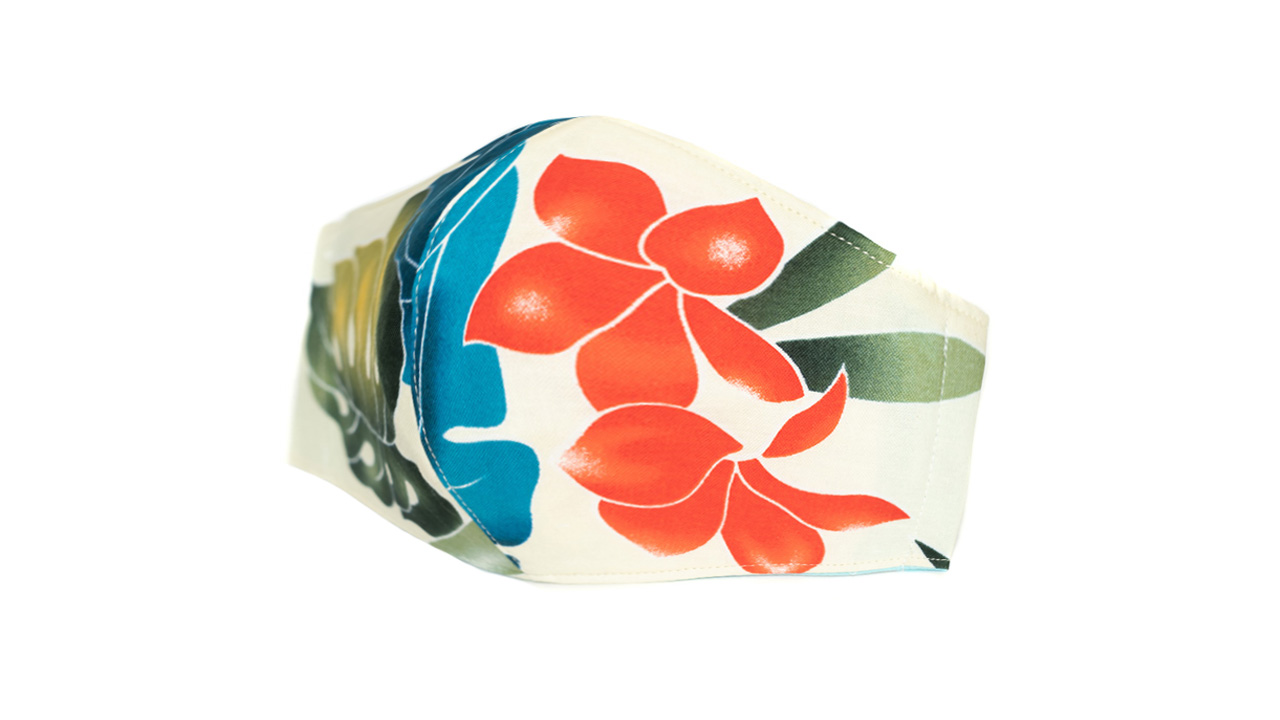
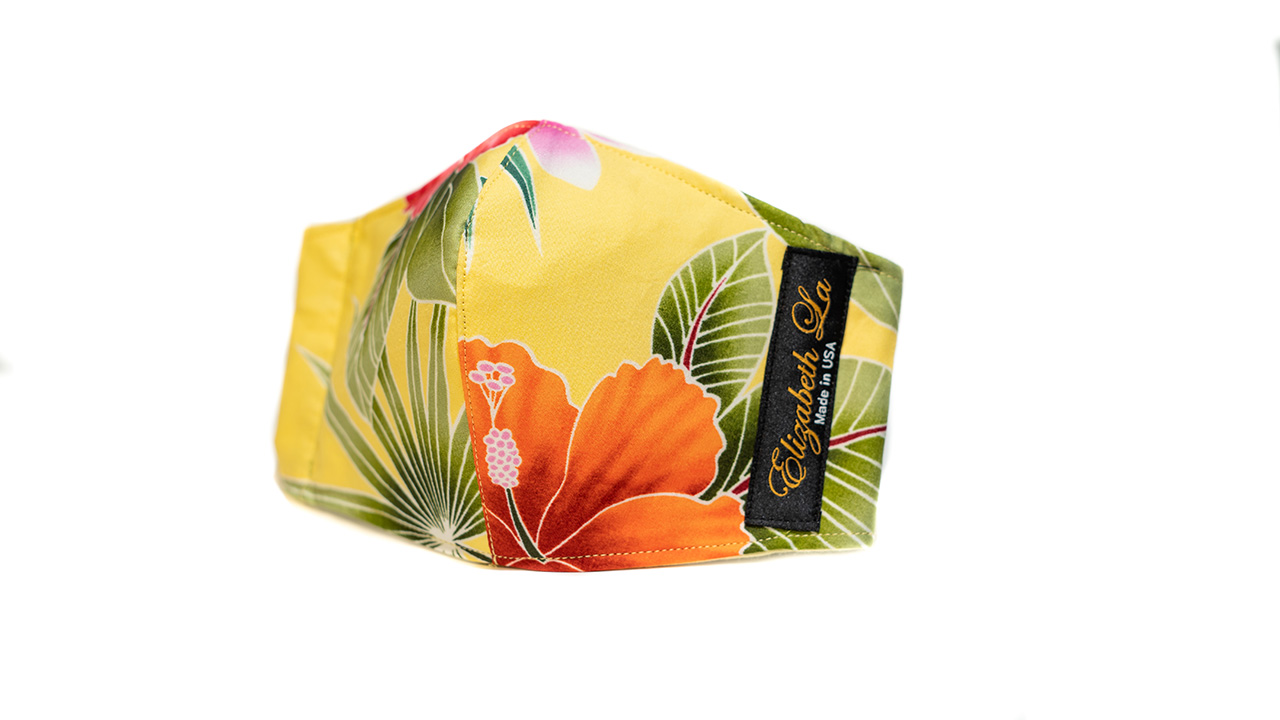
Timestamper, Delete, Edit, etc.

Changed region(s): [[0.1875, 0.1528, 0.7812, 0.825]]

diff --git a/src/components/admin/wholesale/WholesaleOrder.js b/src/components/admin/wholesale/WholesaleOrder.js
@@ -23,6 +23,7 @@ import CircularProgress from '@material-ui/core/CircularProgress';
 import BackToAdmin from '../reusables/BackToAdmin';
 import Snackbar from '@material-ui/core/Snackbar';
 import MuiAlert from '@material-ui/lab/Alert';
+import Timestamper from '../../misc/Timestamper';
 
 const useStyles = makeStyles({
     root: {
@@ -56,6 +57,7 @@ const useStyles = makeStyles({
     caption: {
         fontSize: '.9rem',
         paddingLeft: 16,
+        color: 'rgba(0,0,0,.7)',
     },
 });
 
@@ -95,6 +97,7 @@ export default ({ match }) => {
     const [loading, setLoading] = useState(true);
     const [title, setTitle] = useState('');
     const [snackbarOpen, setSnackbarOpen] = useState(false);
+    const [timestamp, setTimestamp] = useState('0');
 
     const classes = useStyles();
 
@@ -109,6 +112,8 @@ export default ({ match }) => {
                 });
                 console.log(response.data);
                 setTitle(response.data.Title);
+                setTimestamp(response.data.Timestamp);
+                delete response.data.Timestamp;
                 delete response.data.Title;
                 delete response.data.Completed;
                 delete response.data.ID;
@@ -173,10 +178,12 @@ export default ({ match }) => {
             action: 'Save',
             data: data,
             Total: totals.all,
+            timestamp: Timestamper().split('T').join(' ').slice(0, -6),
         };
+        setTimestamp(event.timestamp);
         try {
-            await axios.put(putItemAPI, event, header);
             setSnackbarOpen(true);
+            await axios.put(putItemAPI, event, header);
         } catch (error) {
             console.log(error);
         }
@@ -252,6 +259,7 @@ export default ({ match }) => {
             <p className={classes.caption}>
                 *To Do <strong>WILL NOT</strong> be updated upon Save.
             </p>
+            <p className={classes.caption}>Last updated on {timestamp}</p>
             {loading ? (
                 <div style={{ textAlign: 'center' }}>
                     <CircularProgress />

diff --git a/src/components/admin/Wholesale.js b/src/components/admin/Wholesale.js
@@ -25,7 +25,7 @@ const useStyles = makeStyles({
     root: {
         marginTop: 60,
         width: '100%',
-        maxWidth: 500,
+        maxWidth: 700,
         borderBottom: '2px solid #3f51b5',
         padding: 8,
         paddingBottom: 0,
@@ -53,7 +53,7 @@ const useStyles = makeStyles({
         color: 'rgba(0,0,0,.87)',
     },
     title: {
-        width: '50%',
+        width: 'auto',
     },
 });
 
@@ -84,7 +84,6 @@ export default () => {
         fetchData();
     }, []);
     const classes = useStyles();
-    console.log(data);
 
     const handleUpdateCompleted = async (ID) => {
         try {
@@ -123,6 +122,7 @@ export default () => {
                                 Title
                             </TableCell>
                             <TableCell align="center">Total</TableCell>
+                            <TableCell align="center">Timestamp</TableCell>
                             <TableCell align="center">Completed</TableCell>
                             <TableCell align="center">Remove</TableCell>
                         </TableRow>

diff --git a/src/components/admin/wholesale/CreateWholesaleOrder.js b/src/components/admin/wholesale/CreateWholesaleOrder.js
@@ -21,6 +21,7 @@ import ItemRow from '../reusables/ItemRow';
 import TextField from '@material-ui/core/TextField';
 
 import BackToAdmin from '../reusables/BackToAdmin';
+import Timestamper from '../../misc/Timestamper';
 
 const useStyles = makeStyles({
     root: {
@@ -54,6 +55,7 @@ const useStyles = makeStyles({
     caption: {
         fontSize: '.9rem',
         paddingLeft: 16,
+        color: 'rgba(0,0,0,.7)',
     },
 });
 
@@ -142,6 +144,7 @@ export default () => {
             id: Date.now().toString(),
             title: title,
             data: data,
+            timestamp: Timestamper().split('T').join(' ').slice(0, -6),
         };
         try {
             await axios.post(API, event, header);

diff --git a/src/components/admin/wholesale/WholesaleRow.js b/src/components/admin/wholesale/WholesaleRow.js
@@ -78,6 +78,9 @@ function WholesaleRow({
             <TableCell align="center" component="th" scope="row">
                 {data[id].Total}
             </TableCell>
+            <TableCell align="center" component="th" scope="row">
+                {data[id].Timestamp}
+            </TableCell>
             <TableCell align="center">
                 <CheckIcon
                     onClick={() => handleUpdateCompleted(id)}

diff --git a/src/components/masks/MaskDesigns.js b/src/components/masks/MaskDesigns.js
@@ -1008,8 +1008,8 @@ export const selection = {
         param: 'sunset',
         price: maskPrice,
         category: 'hawaiian',
-        angled: true,
-        tags: ['pink', 'green'],
+        angled: false,
+        tags: ['yellow', 'orange'],
     },
     sky: {
         type: 'Mask',

diff --git a/src/components/misc/Timestamper.js b/src/components/misc/Timestamper.js
@@ -1,0 +1,7 @@
+import moment from 'moment-timezone';
+
+export default () => {
+    let timestamp = moment().tz('America/Los_Angeles').format().toString();
+    const date = timestamp;
+    return date;
+};

diff --git a/src/components/checkout/CartModal.js b/src/components/checkout/CartModal.js
@@ -28,7 +28,7 @@ const useStyles = makeStyles((theme) => ({
         marginBottom: 8,
     },
     okayButton: {
-        paddingTop: 8,
+        paddingTop: 16,
         color: '#93C9FF',
     },
 }));
